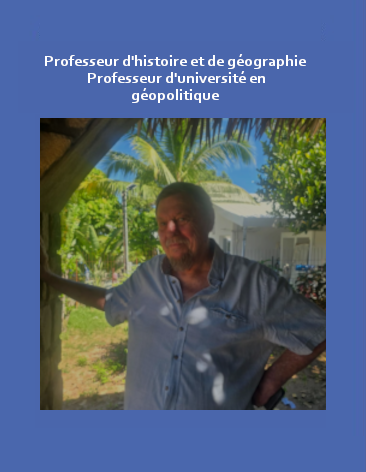
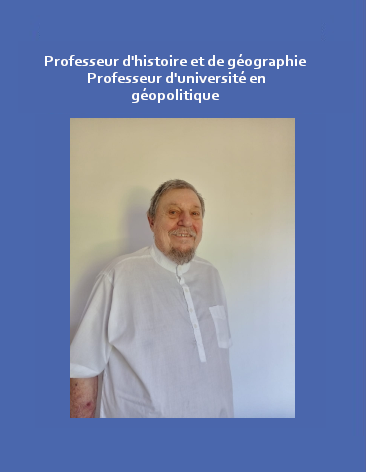
Update Barday Image Equipe

diff --git a/src/components/team/TeamPage.jsx b/src/components/team/TeamPage.jsx
@@ -5,6 +5,7 @@ import christianTibayrencImage from "../../assets/image/christian_tibayrenc.png"
 import charlotteImage from "../../assets/image/charlotte.png";
 import charlotteEntrprise1 from "../../assets/image/charlotte_ep1.png";
 import charlotteEntrprise2 from "../../assets/image/charlotte_ep2.png";
+import bardayImage from "../../assets/image/barday.png";
 
 const teamMembers = [
   {
@@ -118,11 +119,10 @@ const teamMembers = [
 </main>`,
   },
   {
-    name: "René-Paul Barthel",
-    role: "Coordination terrain",
-    tag: "Ouest",
-    image:
-      "https://images.unsplash.com/photo-1500648767791-00dcc994a43e?auto=format&fit=crop&w=600&q=80",
+    name: "Nigar BARDAY",
+    role: "",
+    tag: "",
+    image: bardayImage,
     description:
       "Anime les équipes de terrain, organise les déplacements et s'assure du suivi des engagements locaux. René-Paul travaille au plus près des collectifs pour faire remonter les besoins et structurer les actions concrètes.",
   },

diff --git a/src/components/carousel/CarouselSection.jsx b/src/components/carousel/CarouselSection.jsx
@@ -7,7 +7,7 @@ import "./carousel.css";
 
 const defaultSlides = [
   {
-    title: "CHRISTIAN TIBAYRENC",
+    title: "Christian TIBAYRENC",
     image: christianTibayrenc,
     description:
       `C’est avec beaucoup d’humilité, sincérité et détermination que je me présente comme tète de liste de « l’Union des Français de Madagascar ». Depuis 12 ans que je connais Madagascar, j’y ai construit ma vie avec ma famille, mon épouse étant Gasy, et notre fille allant a l’école Française.
@@ -68,7 +68,7 @@ export default function CarouselSection({ content }) {
 
     const intervalId = setInterval(() => {
       setActiveIndex((current) => (current + 1) % slides.length);
-    }, 5000);
+    }, 25000);
 
     return () => clearInterval(intervalId);
   }, [slides.length]);
